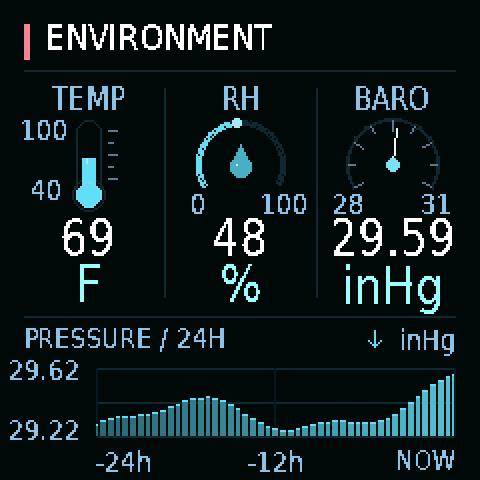
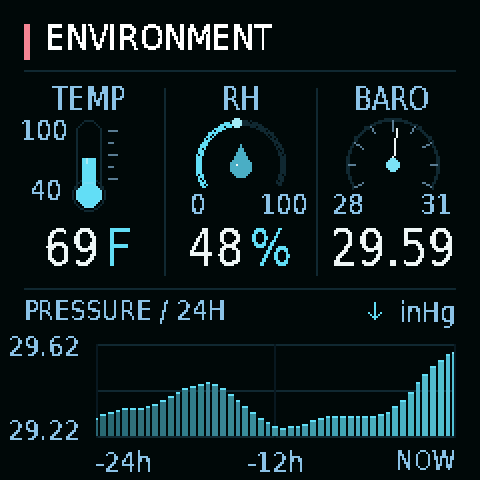
Refine Environment reading spacing and histogram layout in 4.5.2

Changed region(s): [[0.0, 0.4375, 0.9688, 0.9062]]

diff --git a/src/main.cpp b/src/main.cpp
@@ -1,5 +1,5 @@
 /*
- BREATHE // INSTRUMENT OS 4.5.1 -- 07 October 2026
+ BREATHE // INSTRUMENT OS 4.5.2 -- 07 October 2026
  Home Assistant MQTT discovery and 10-second telemetry; local credentials only.
  Gas main title: VoC AIR QUALITY; calibration details remain on gas-info6.
  Brighter cyan, amber and violet ribbons frame IAQ; motion requires a valid reading.
@@ -71,7 +71,7 @@
 constexpr char WIFI_SSID[] = "";
 constexpr char WIFI_PASSWORD[] = "";
 #endif
-constexpr char FIRMWARE_VERSION[]="4.5.1";
+constexpr char FIRMWARE_VERSION[]="4.5.2";
 constexpr int BUTTON_GPIO = 3;     // XIAO D1 / GPIO3 -> pushbutton -> GND.
 constexpr bool ENABLE_PMS = true; // Absent PMS simply stays offline.
 constexpr int PMS_RX_GPIO = 20;    // D7 <- PIM477 pin labelled RX (sensor TX).
@@ -2996,8 +2996,14 @@ PressureTrend pressureTrend(){
 }
 void environmentGaugeReading(Adafruit_GFX& d,int x,float reading,int decimals,const char* unit){
  char valueText[20];if(isfinite(reading))snprintf(valueText,sizeof(valueText),"%.*f",decimals,(double)reading);else strcpy(valueText,"--");
- center(d,x,109,valueText,&EnvironmentGaugeFont,WHITE);
- center(d,x,132,unit,&EnvironmentGaugeFont,CYAN);
+ // Center the complete reading; number and unit share one baseline and font.
+ d.setFont(&EnvironmentGaugeFont);d.setTextSize(1);d.setTextWrap(false);
+ int16_t vx,vy,ux,uy;uint16_t vw,vh,uw,uh;
+ d.getTextBounds(valueText,0,0,&vx,&vy,&vw,&vh);
+ d.getTextBounds(unit,0,0,&ux,&uy,&uw,&uh);
+ const int gap=*unit?3:0,left=x-(vw+gap+uw)/2,baseline=133;
+ d.setTextColor(WHITE);d.setCursor(left-vx,baseline);d.print(valueText);
+ if(*unit){d.setTextColor(CYAN);d.setCursor(left+vw+gap-ux,baseline);d.print(unit);}
 }
 void temperatureGauge(Adafruit_GFX& d,float temperature,float glow){
  const int x=44;const bool fresh=isfinite(temperature);
@@ -3056,13 +3062,13 @@ PressurePlotRange pressurePlotRange(uint64_t now){
 }
 void pressureHistogram(Adafruit_GFX& d,float glow){
  const uint64_t now=nowMs(),current=now/PRESSURE_BUCKET_MS;
- const int left=48,rightEdge=228,top=184,bottom=218,width=rightEdge-left;
+ const int left=48,rightEdge=228,top=172,bottom=218,width=rightEdge-left;
  const int64_t windowStart=(int64_t)now-(int64_t)PRESSURE_DAY_MS;
  const PressurePlotRange range=pressurePlotRange(now);
- text(d,12,164,"PRESSURE / 24H",&EnvironmentSmallFont,DIM);
- right(d,228,164,"inHg",&EnvironmentSmallFont,DIM);
+ text(d,12,150,"PRESSURE / 24H",&EnvironmentSmallFont,DIM);
+ right(d,228,150,"inHg",&EnvironmentSmallFont,DIM);
  PressureTrend trend=pressureTrend();
- if(trend.ready){const int x=187,y=169;
+ if(trend.ready){const int x=187,y=155;
   if(trend.direction){int end=y-4*trend.direction;d.drawLine(x,y+4*trend.direction,x,end,CYAN);
    d.drawLine(x,end,x-3,end+3*trend.direction,CYAN);d.drawLine(x,end,x+3,end+3*trend.direction,CYAN);}
   else d.drawFastHLine(x-3,y,7,CYAN);
@@ -3096,10 +3102,10 @@ void environmentMain(Adafruit_GFX& d){
  const float glow=.5f+.5f*sinf((nowMs()%4000)*6.2831853f/4000.0f);
  // Three equal instrument bays, with the same typeface and number/unit size.
  center(d,44,43,"TEMP",&EnvironmentLabelFont,DIM);center(d,120,43,"RH",&EnvironmentLabelFont,DIM);center(d,196,43,"BARO",&EnvironmentLabelFont,DIM);
- d.drawFastVLine(82,44,105,GRID);d.drawFastVLine(158,44,105,GRID);
+ d.drawFastVLine(82,44,94,GRID);d.drawFastVLine(158,44,94,GRID);
  temperatureGauge(d,temperature,glow);humidityGauge(d,humidity,glow);barometerGauge(d,pressure,glow);
- environmentGaugeReading(d,44,temperature,0,"F");environmentGaugeReading(d,120,humidity,0,"%");environmentGaugeReading(d,196,pressure,2,"inHg");
- rule(d,158);pressureHistogram(d,glow);
+ environmentGaugeReading(d,44,temperature,0,"F");environmentGaugeReading(d,120,humidity,0,"%");environmentGaugeReading(d,196,pressure,2,"");
+ rule(d,144);pressureHistogram(d,glow);
 }
 
 void radar(Adafruit_GFX& d) {
@@ -3725,7 +3731,7 @@ String statusJSON() {
  const ParticleAQI paqi=particleAQI();const PressureTrend pressure=pressureTrend();
  Moisture m=ef?moisture(env.t,env.rh):Moisture();
  String s; s.reserve(4500);
- s="{\"firmware\":\"BREATHE 4.5.1\",\"page\":\"";s+=PAGE_NAMES[page];
+ s="{\"firmware\":\"BREATHE 4.5.2\",\"page\":\"";s+=PAGE_NAMES[page];
  s+="\",\"details\":"+jsonBool(detail)+",\"subpage\":"+String(subpage+1);
  char id[24];screenID(id,sizeof(id));s+=",\"screen_id\":\""+String(id)+"\"";
  s+=",\"auto_tour\":"+jsonBool(autoTour)+",\"uptime_s\":"+jsonNumber(nowMs()/1000.0,1);
@@ -3843,7 +3849,7 @@ void command(char c) {
 }
 const char WEB_PAGE[] PROGMEM=R"HTML(<!doctype html><html><meta name="viewport" content="width=device-width,initial-scale=1"><title>BREATHE</title>
 <style>body{background:#080e16;color:#e5f2f3;font:16px monospace;margin:24px;max-width:850px}button{background:#122733;color:#b2eef4;border:1px solid #467284;padding:12px;margin:3px;font-size:16px}pre{white-space:pre-wrap;font-size:14px}small{color:#9eb7c5}</style>
-<h1>BREATHE // 4.5.1</h1><p>Local instrument controls</p>
+<h1>BREATHE // 4.5.2</h1><p>Local instrument controls</p>
 <button onclick="key('p')">Previous</button><button onclick="key('n')">Next</button><button onclick="key('l')">Details / Return</button><button onclick="key('h')">Home</button><button onclick="key('g')">Bosch</button>
 <p><small>Particle AQI is a live estimate from current PM2.5/PM10 mass readings using EPA breakpoints, without daily or NowCast averaging. VoC Air Quality is the separate Bosch IAQ index after run-in and calibration. Missing/stale current values are null. Times are uptime, not wall-clock time.</small></p>
 <pre id="status">Connecting...</pre><script>
@@ -3878,7 +3884,7 @@ void serviceNetwork() {
 // ------------------------------ Arduino -----------------------------------
 void setup() {
  Serial.begin(115200); // No wait for a USB serial monitor to be opened.
- Serial.println("\nBREATHE INSTRUMENT OS 4.5.1");
+ Serial.println("\nBREATHE INSTRUMENT OS 4.5.2");
  WiFi.mode(WIFI_OFF);
  SPI.begin(8,-1,10,-1);tft.init(240,240,SPI_MODE3);tft.setRotation(0);tft.setSPISpeed(10000000);
  tft.fillScreen(BLACK);center(tft,120,92,"BREATHE",&NumberFont,WHITE);

diff --git a/README.md b/README.md
@@ -1,7 +1,7 @@
 # BREATHE
 
 Air monitor firmware for John's Seeed XIAO ESP32-C3 and 240 x 240 ST7789 display.
-Current firmware: Instrument OS **4.5.1**, with the Environment instrument-panel
+Current firmware: Instrument OS **4.5.2**, with the Environment instrument-panel
 redesign from October 7, 2026 and Home Assistant MQTT discovery.
 The optional MQTT connection automatically registers **92 entities** under one
 BREATHE device and publishes a full snapshot every ten seconds. Telemetry uses
@@ -25,8 +25,10 @@ The CO2 eye is moved up four pixels to center it between its title and lower cap
 CO2, Particle AQI, particle count and VoC numbers share a 33-pixel-high font; CO2 uses a
 compact fallback for five-digit readings. The subtle eye animation is retained.
 Environment is now split into three equal columns: a thermometer, humidity ring,
-and barometer dial. The numeric readings sit beneath the gauges, with **F**,
-**%** and **inHg** on a second line in the same font and size as the numbers.
+and barometer dial. The numeric readings sit beneath the gauges, with **F** and
+**%** beside their numbers on the same baseline and in the same font size. The
+pressure reading has no separate unit line; **inHg** labels the histogram below.
+The freed space gives the pressure histogram a taller plotting area.
 The established sans-serif family and cyan/white palette are retained. Small
 highlights brighten gently on a four-second cycle while their readings are valid;
 gauge positions follow measurements, with no artificial needle or level movement.

diff --git a/HOME_ASSISTANT.md b/HOME_ASSISTANT.md
@@ -1,7 +1,7 @@
 # BREATHE and Home Assistant
 
 Firmware 4.5.0 adds MQTT discovery to the existing Arduino/PlatformIO build.
-Firmware 4.5.1 retains the same 92 entities and connection settings while adding
+Firmware 4.5.2 retains the same 92 entities and connection settings while adding
 the redesigned Environment gauges and local 24-hour pressure histogram.
 The display, sensor acquisition and button controls continue to work independently.
 Home Assistant records incoming readings and can use them in dashboards and
